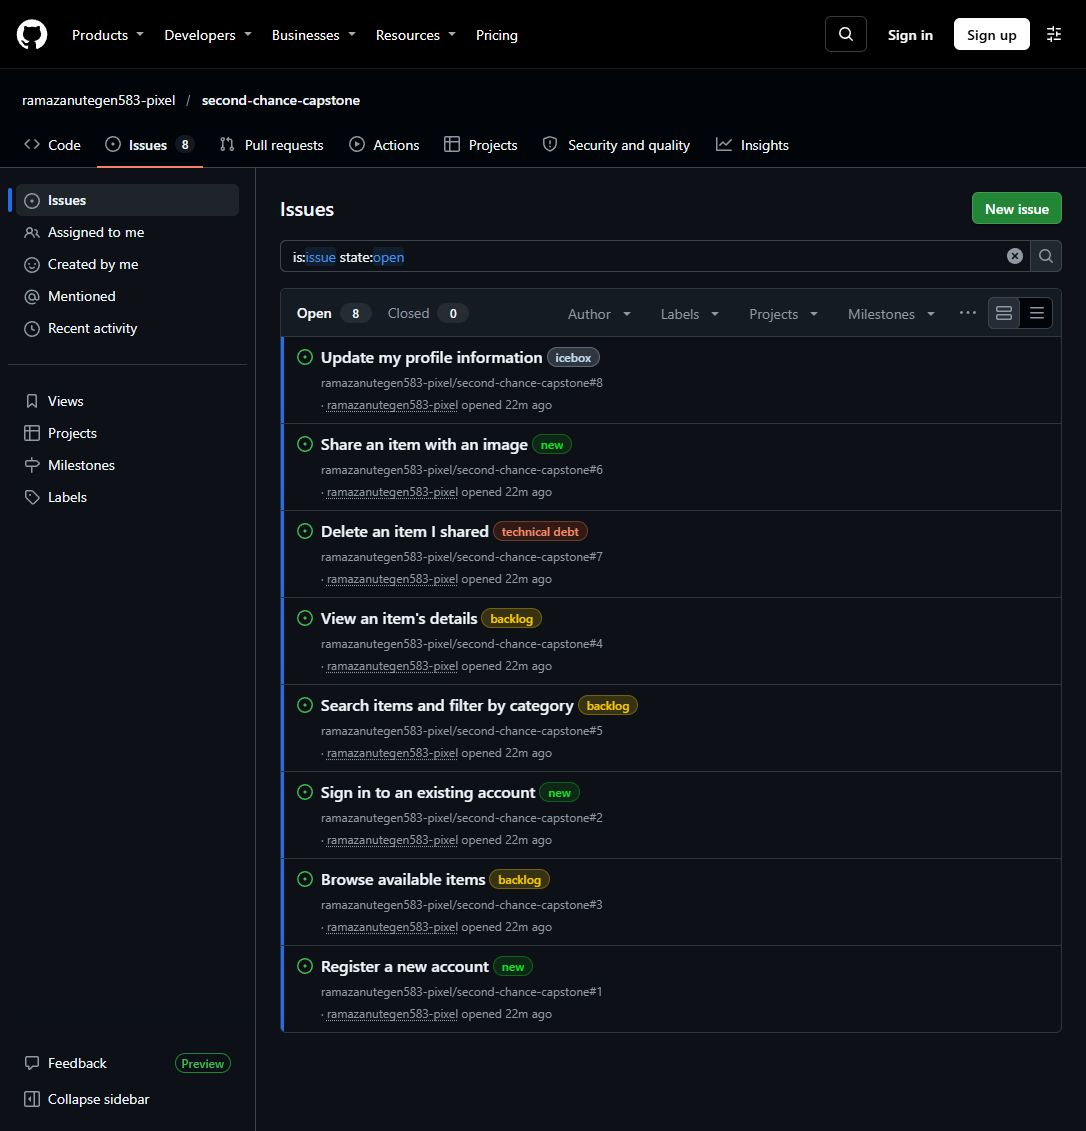
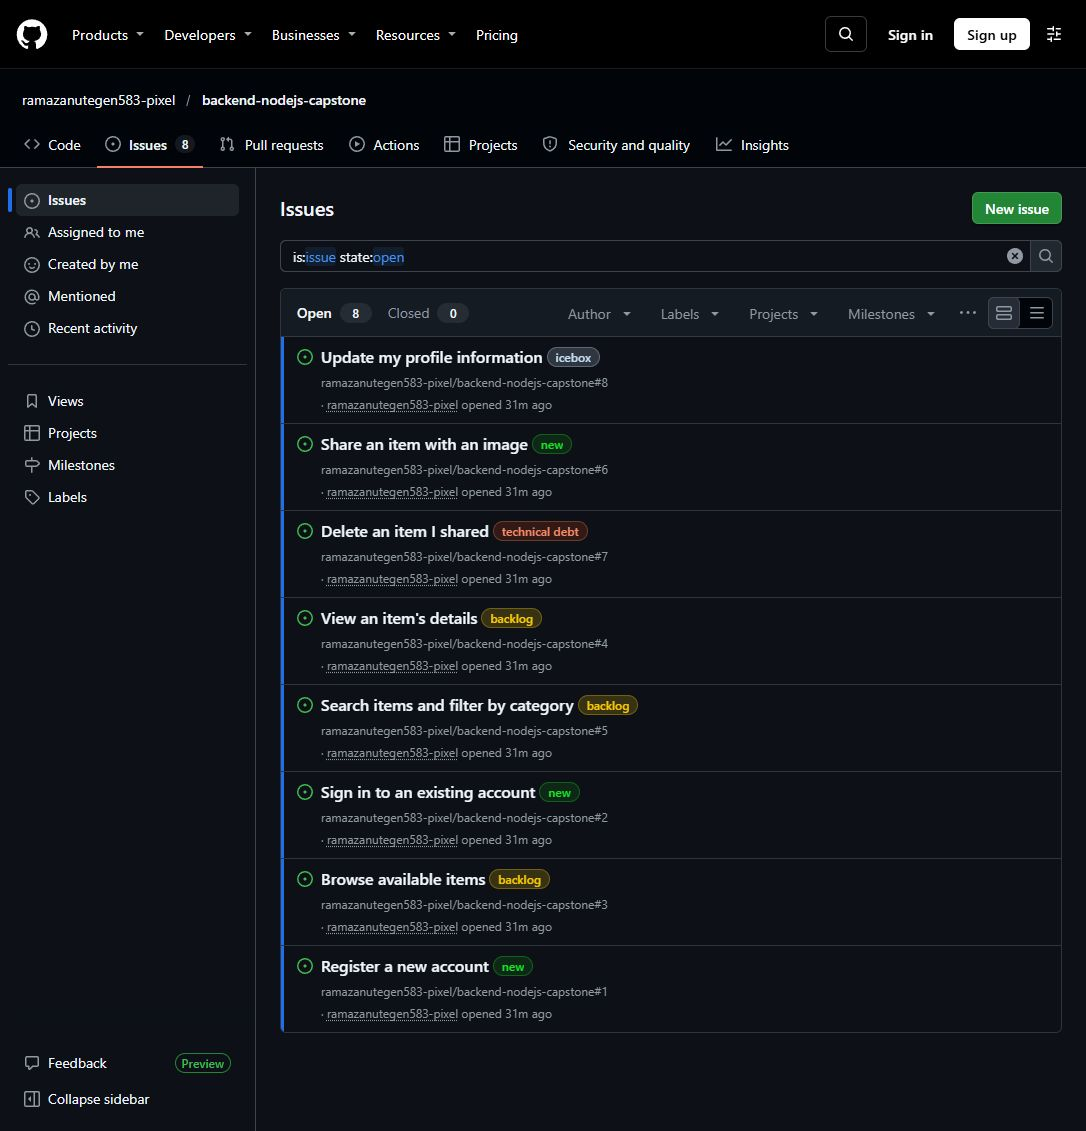
Match required backend-nodejs-capstone repository layout

diff --git a/secondChance-backend/index.js b/secondChance-backend/index.js
@@ -1,5 +1,5 @@
 import 'dotenv/config';
-import natural from 'natural';
+import { tokenizer } from '../sentiment/index.js';
 import { randomBytes } from 'node:crypto';
 import { fileURLToPath } from 'node:url';
 import { createApp } from './app.js';
@@ -11,7 +11,7 @@ export async function startServer() {
     process.env.JWT_SECRET = randomBytes(32).toString('hex');
   }
   await connectToDatabase();
-  const app = createApp(new natural.WordTokenizer());
+  const app = createApp(tokenizer);
   const port = Number(process.env.PORT || 3060);
   const server = app.listen(port, '127.0.0.1', () => console.log(`Second Chance is running at http://localhost:${port}`));
   const stop = () => server.close(async () => { await closeDatabase(); process.exit(0); });

diff --git a/secondChance-backend/app.js b/secondChance-backend/app.js
@@ -14,7 +14,7 @@ export function createApp(tokenizer) {
   app.use('/api/auth', authRoutes);
   app.get('/api/health', (req, res) => res.json({ status: 'ok' }));
   app.use('/uploads', express.static(fileURLToPath(new URL('./uploads/', import.meta.url))));
-  app.use(express.static(fileURLToPath(new URL('./dist/', import.meta.url))));
+  app.use(express.static(fileURLToPath(new URL('../dist/', import.meta.url))));
   app.use((req, res) => res.status(404).json({ error: 'Route not found.' }));
   app.use((error, req, res, next) => {
     if (error.code === 'LIMIT_FILE_SIZE') return res.status(400).json({ error: 'Maximum image size is 5 MB.' });

diff --git a/scripts/seed.js b/scripts/seed.js
@@ -2,7 +2,7 @@ import 'dotenv/config';
 import { readFileSync, mkdirSync, writeFileSync } from 'node:fs';
 import { fileURLToPath } from 'node:url';
 import { ObjectId } from 'mongodb';
-import { connectToDatabase, closeDatabase } from '../db.js';
+import { connectToDatabase, closeDatabase } from '../secondChance-backend/db.js';
 
 export async function seedItems() {
   const db = await connectToDatabase();

diff --git a/scripts/start-local.js b/scripts/start-local.js
@@ -11,6 +11,6 @@ if (!process.env.MONGODB_URI) {
 process.env.JWT_SECRET ||= randomBytes(32).toString('hex');
 const { seedItems } = await import('./seed.js');
 await seedItems();
-const { startServer } = await import('../index.js');
+const { startServer } = await import('../secondChance-backend/index.js');
 const server = await startServer();
 if (mongo) server.once('close', () => mongo.stop());

diff --git a/sentiment/index.js b/sentiment/index.js
@@ -1,0 +1,3 @@
+import natural from 'natural';
+
+export const tokenizer = new natural.WordTokenizer();

diff --git a/README.md b/README.md
@@ -2,6 +2,28 @@
 
 A simple capstone project for sharing useful second-hand items. The repository contains an Express API backed by MongoDB, 16 sample items, user authentication, and a small landing page.
 
+The public assignment repository is [backend-nodejs-capstone](https://github.com/ramazanutegen583-pixel/backend-nodejs-capstone).
+
+## Repository layout
+
+```text
+user-story.md
+.github/ISSUE_TEMPLATE/user-story.md
+secondChance-backend/
+  app.js
+  db.js
+  routes/
+    secondChanceItemsRoutes.js
+    searchRoutes.js
+    authRoutes.js
+sentiment/
+  index.js
+dist/
+submission/
+```
+
+`secondChance-backend` contains the MongoDB connection and Express routes. `sentiment/index.js` imports the `natural` package. The root scripts start the backend and collect genuine terminal evidence in `submission`.
+
 ## Quick start
 
 Use Node.js 20.19 or newer and npm or pnpm.
@@ -51,10 +73,12 @@ npm run evidence
 
 `user-story.md` and `.github/ISSUE_TEMPLATE/user-story.md` contain the user story template. Eight stories are defined in `data/user-stories.json`. After authenticating GitHub, `npm run publish:github` creates a public repository and its labeled issues using an in-memory `GITHUB_TOKEN` environment variable. Push source separately. `submission/github-links.json` contains the URLs after publication.
 
-For task 2, upload the provided `submission/userstories.png`: all eight GitHub Issues and their labels are visible. For task 10, upload `submission/deployed_landingpage.png`: the real Chrome URL bar, project name, description, and Get Started button are visible. The public deployed landing page is https://ramazanutegen583-pixel.github.io/second-chance-capstone/.
+For task 2, upload the provided `submission/userstories.png`: all eight GitHub Issues and their labels are visible. For task 10, upload `submission/deployed_landingpage.png`: the real Chrome URL bar, project name, description, and Get Started button are visible. The public deployed landing page is https://ramazanutegen583-pixel.github.io/backend-nodejs-capstone/.
 
 ## CI/CD
 
 `.github/workflows/cicd.yml` runs on pushes to main, pull requests, and manual dispatch. It installs locked dependencies, checks JavaScript syntax, imports 16 items into a MongoDB service, runs the API integration tests, validates the landing page, and uploads its deployment artifact. Successful main-branch runs deploy the landing page to GitHub Pages and verify the published page. Pull requests run validation without deployment.
 
-View [GitHub Actions](https://github.com/ramazanutegen583-pixel/second-chance-capstone/actions/workflows/cicd.yml). After a successful run, `node scripts/github-actions.mjs logs RUN_ID` saves its full job logs and step results in `submission/CICD` for task 16. Authentication uses `GITHUB_TOKEN` or the existing Git Credential Manager sign-in; credentials are not written into the project.
+View [GitHub Actions](https://github.com/ramazanutegen583-pixel/backend-nodejs-capstone/actions/workflows/cicd.yml). After a successful run, `node scripts/github-actions.mjs logs RUN_ID` saves its full job logs and step results in `submission/CICD` for task 16. Authentication uses `GITHUB_TOKEN` or the existing Git Credential Manager sign-in; credentials are not written into the project.
+
+The same full output is also saved as `submission/CICD-full.log`. For convenient copying into the assignment or chat, `node scripts/github-actions.mjs report RUN_ID` saves `submission/CICD-copy.txt`: a concise terminal report containing every job and every step with its actual result, followed by selected original lines for installation, MongoDB import, tests, API startup, and deployment. It does not replace the full `CICD` log.
